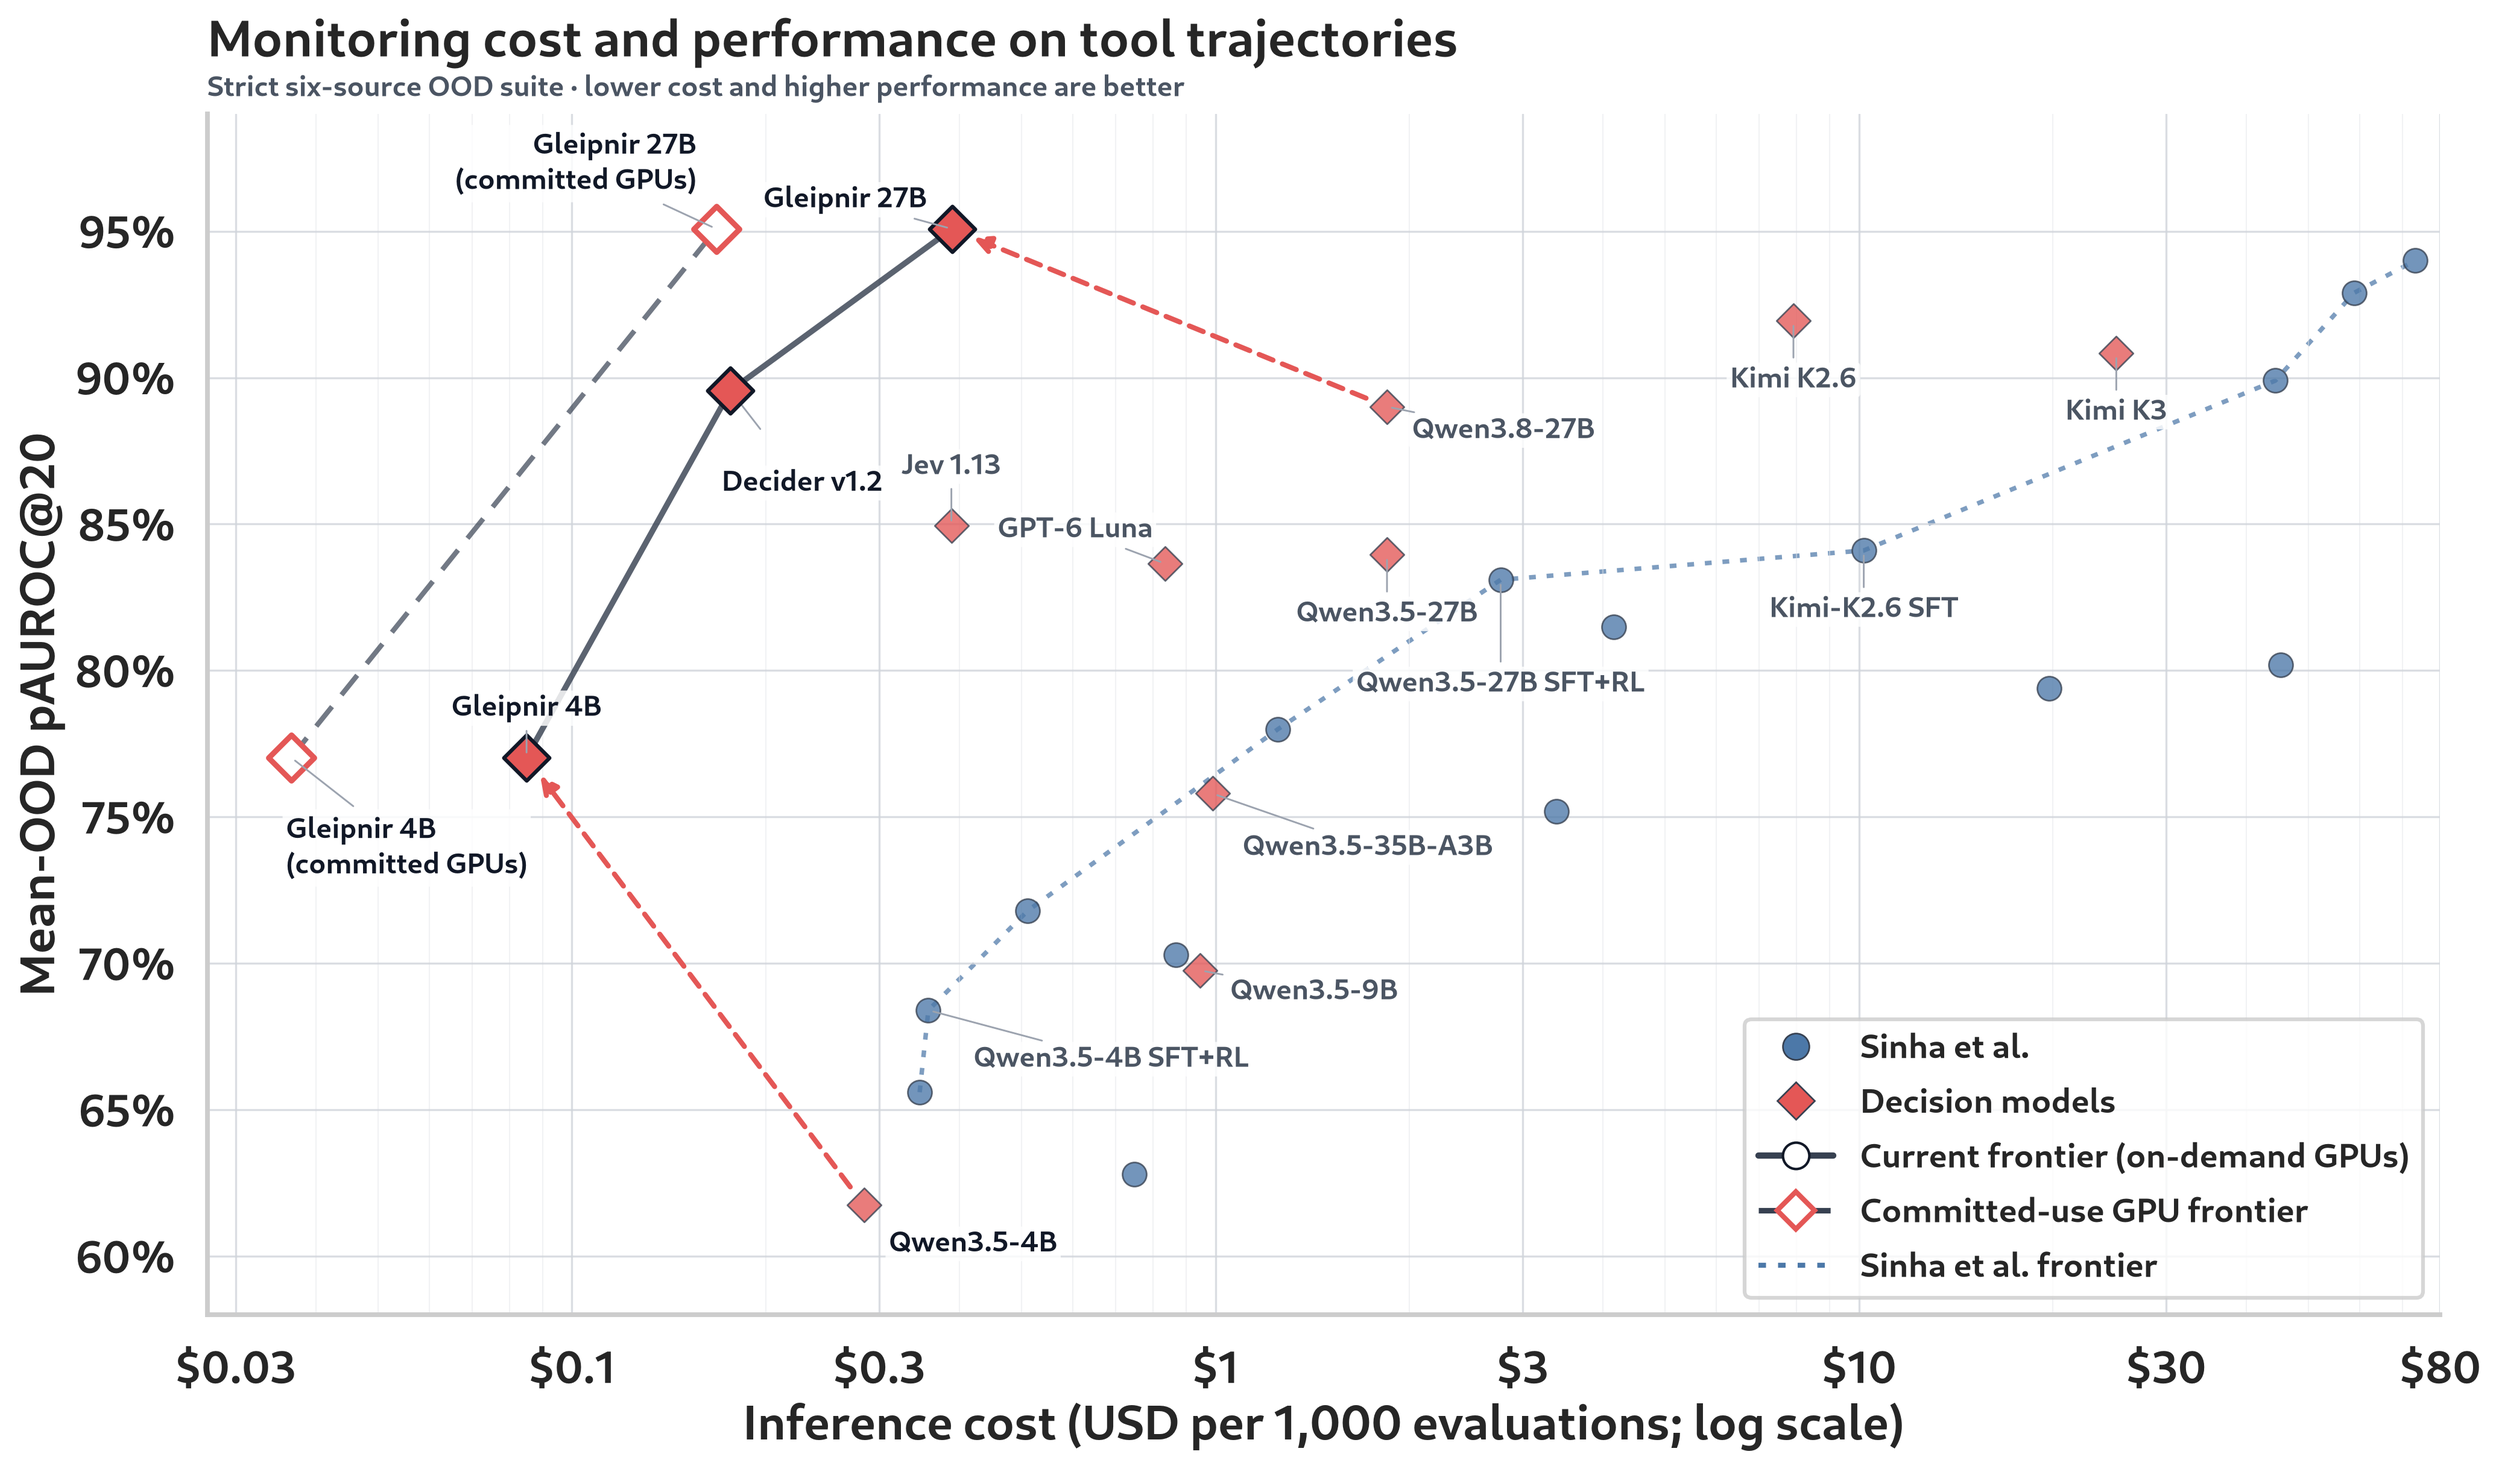
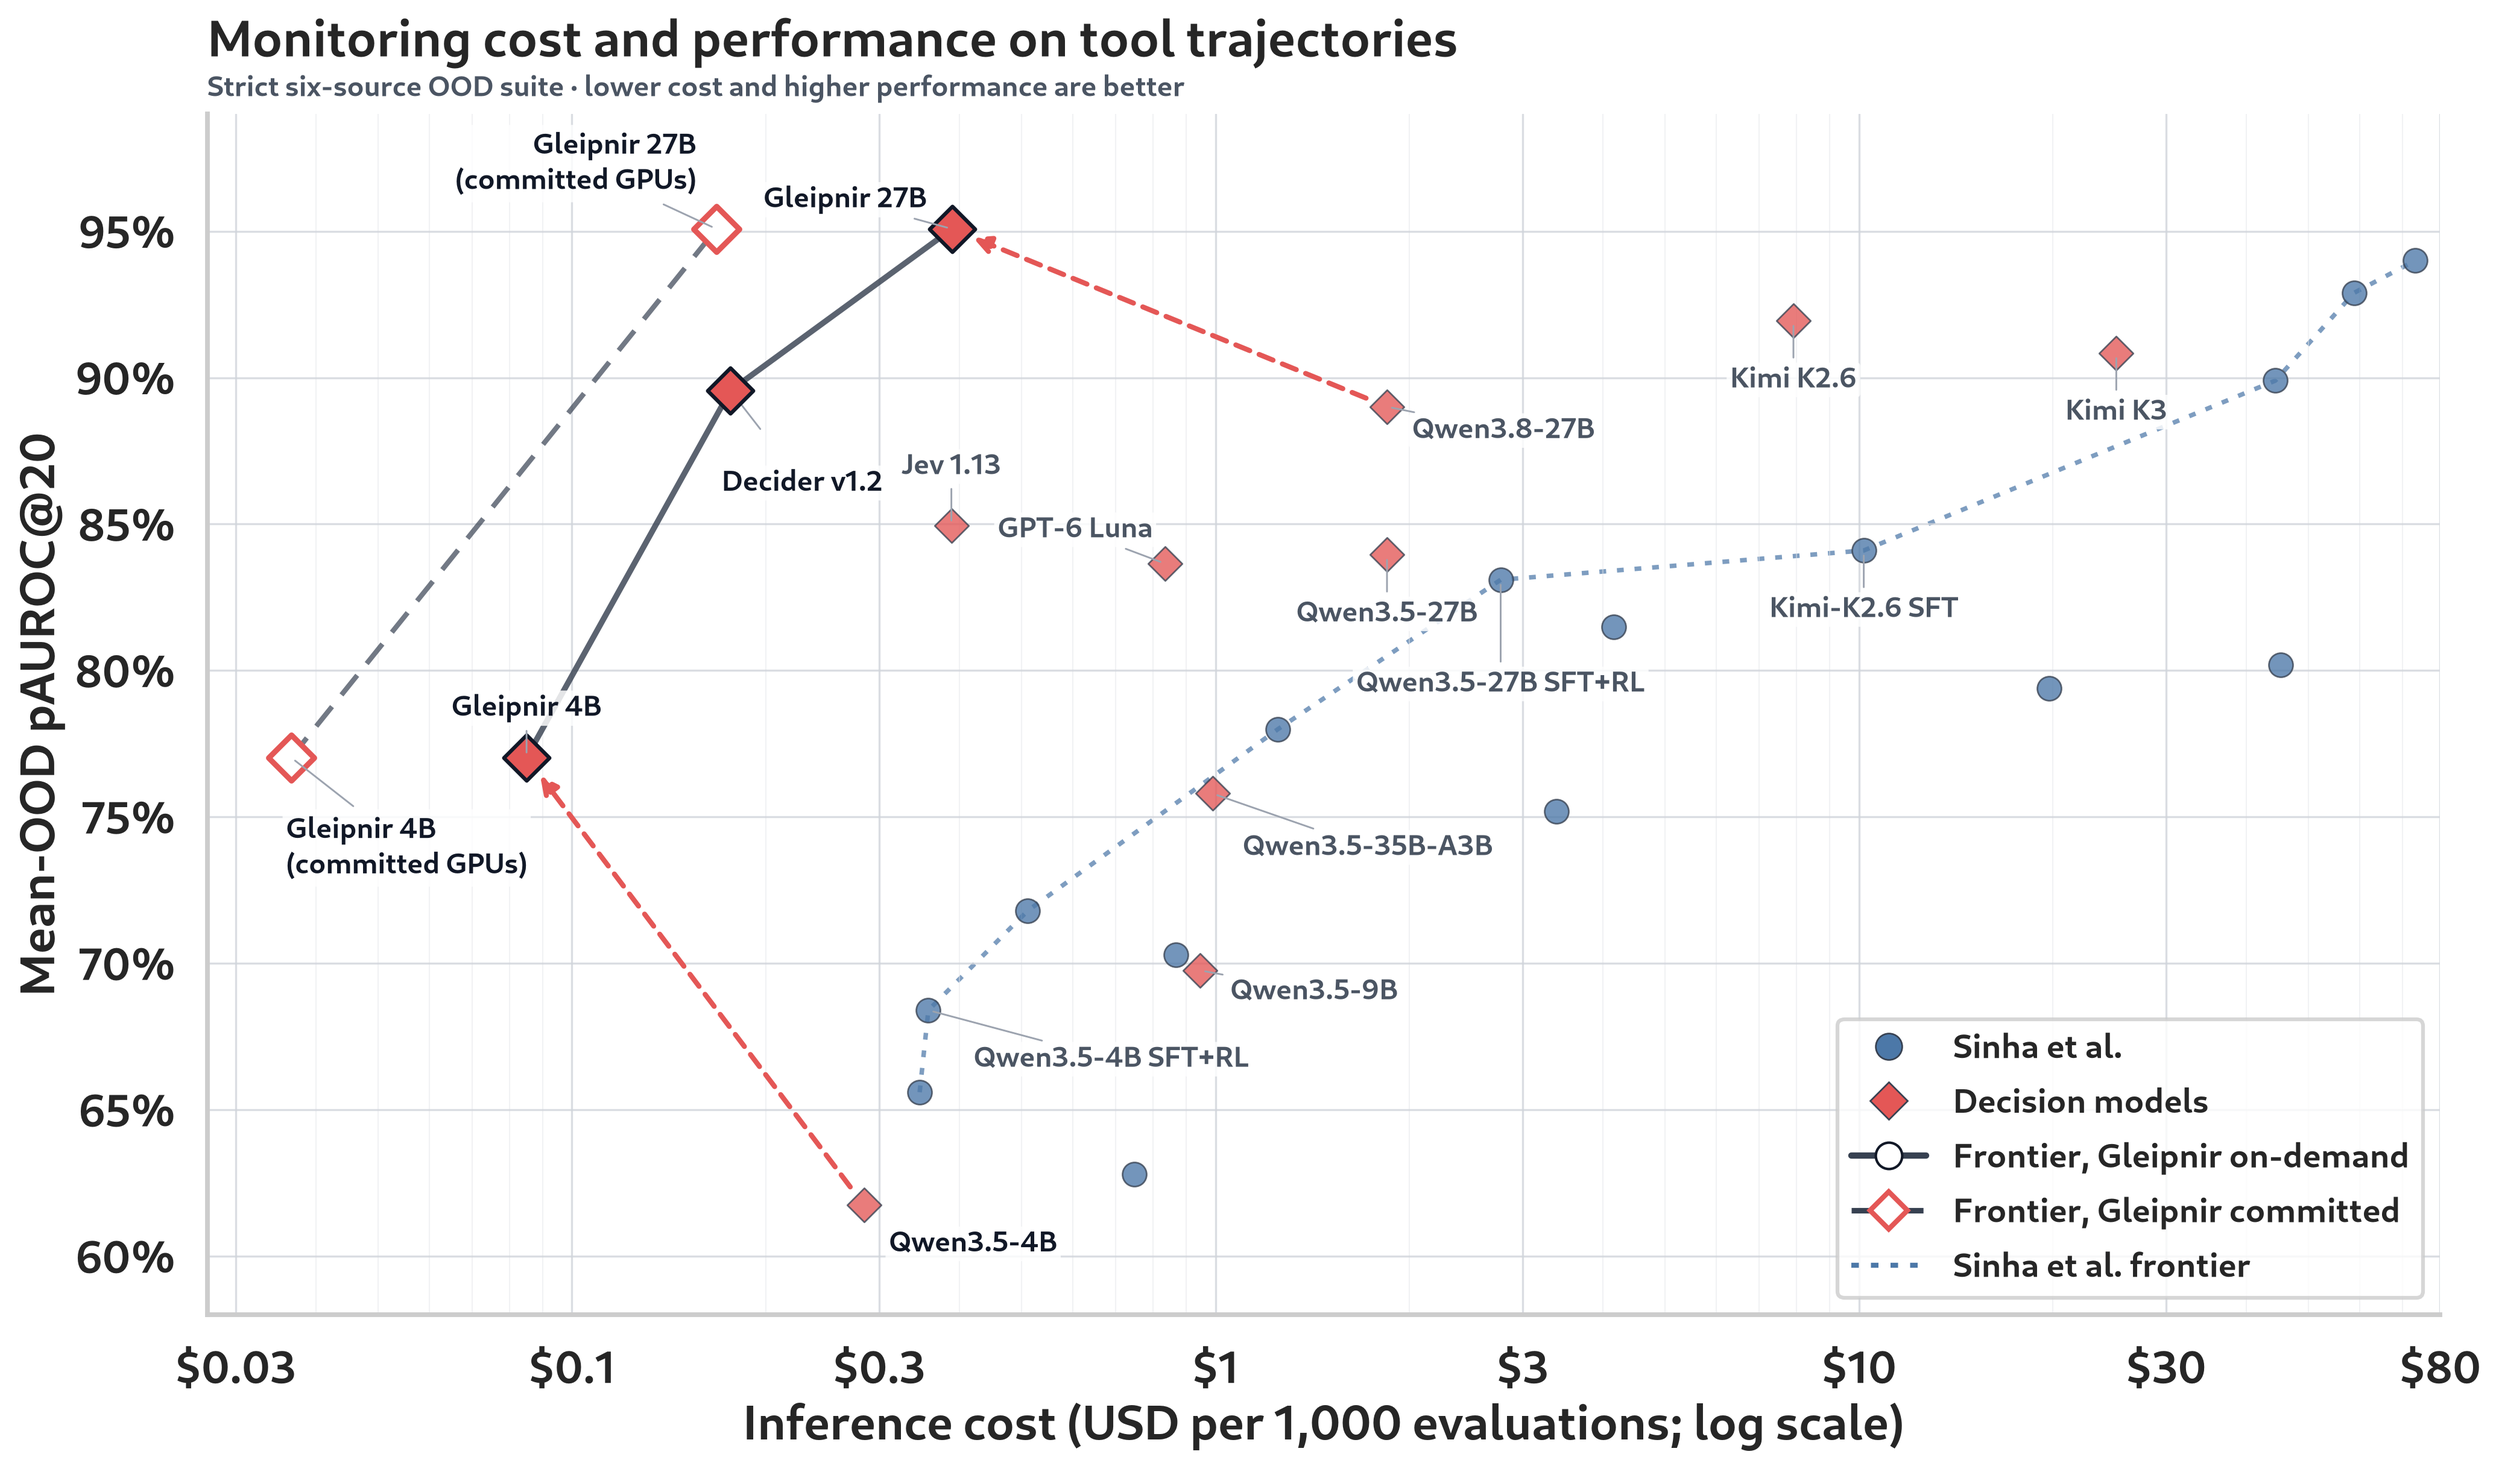
Label the plotted frontiers by how Gleipnir is priced

Changed region(s): [[0.6848, 0.6861, 0.965, 0.8732]]

diff --git a/scripts/plot_tool_trajectory_ood_frontier.py b/scripts/plot_tool_trajectory_ood_frontier.py
@@ -574,7 +574,7 @@ def plot_frontier(frame: pd.DataFrame) -> plt.Figure:
             markeredgecolor="#111827",
             linewidth=2.5,
             markersize=10.5,
-            label="Current frontier (on-demand GPUs)",
+            label="Frontier, Gleipnir on-demand",
         )
     )
     legend_handles.append(
@@ -589,7 +589,7 @@ def plot_frontier(frame: pd.DataFrame) -> plt.Figure:
             markeredgewidth=2.0,
             linewidth=2.2,
             markersize=10.5,
-            label="Committed-use GPU frontier",
+            label="Frontier, Gleipnir committed",
         )
     )
     legend_handles.append(

diff --git a/docs/research/tool_trajectory_ood_frontier.md b/docs/research/tool_trajectory_ood_frontier.md
@@ -77,7 +77,9 @@ row is both no more expensive and at least as accurate, with one strict
 improvement. Each pricing regime has its own frontier: on-demand rows compete
 with list-priced rows, and committed-GPU rows compete with list-priced rows.
 Committed-GPU rows report their regime's frontier; all other rows report the
-on-demand regime. The plot draws both frontiers.
+on-demand regime. The plot draws both frontiers. List prices such as the
+Decider's already include the provider's own GPU discounts, so the regimes
+differ only in how Gleipnir is priced; the frontiers are labelled by it.
 
 | Origin | Monitor | Evaluation interface | Uncached inference cost (USD / 1,000 evaluations) | Mean-OOD pAUROC@20 | Frontier |
 | --- | --- | --- | ---: | ---: | :---: |
